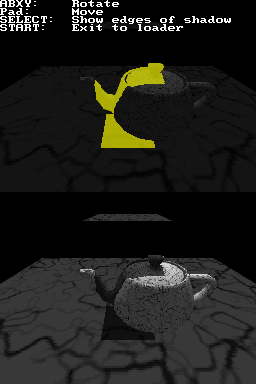
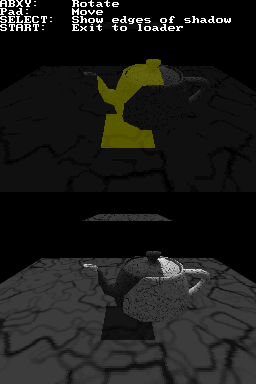
examples: Improve volumetric shadow example
The light in the dark room was too bright.

Changed region(s): [[0.3125, 0.1562, 0.8125, 0.4062], [0.3125, 0.6562, 0.8438, 0.875]]

diff --git a/examples/effects/volumetric_shadow/source/main.c b/examples/effects/volumetric_shadow/source/main.c
@@ -162,7 +162,7 @@ void Draw3DSceneDark(void *arg)
 
     // Draw shadow volume as a yellow volume (light)
     NE_MaterialUse(NULL);
-    NE_PolyColor(NE_Yellow);
+    NE_PolyColor(RGB15(15, 15, 0));
 
     if (Scene->draw_edges)
     {
